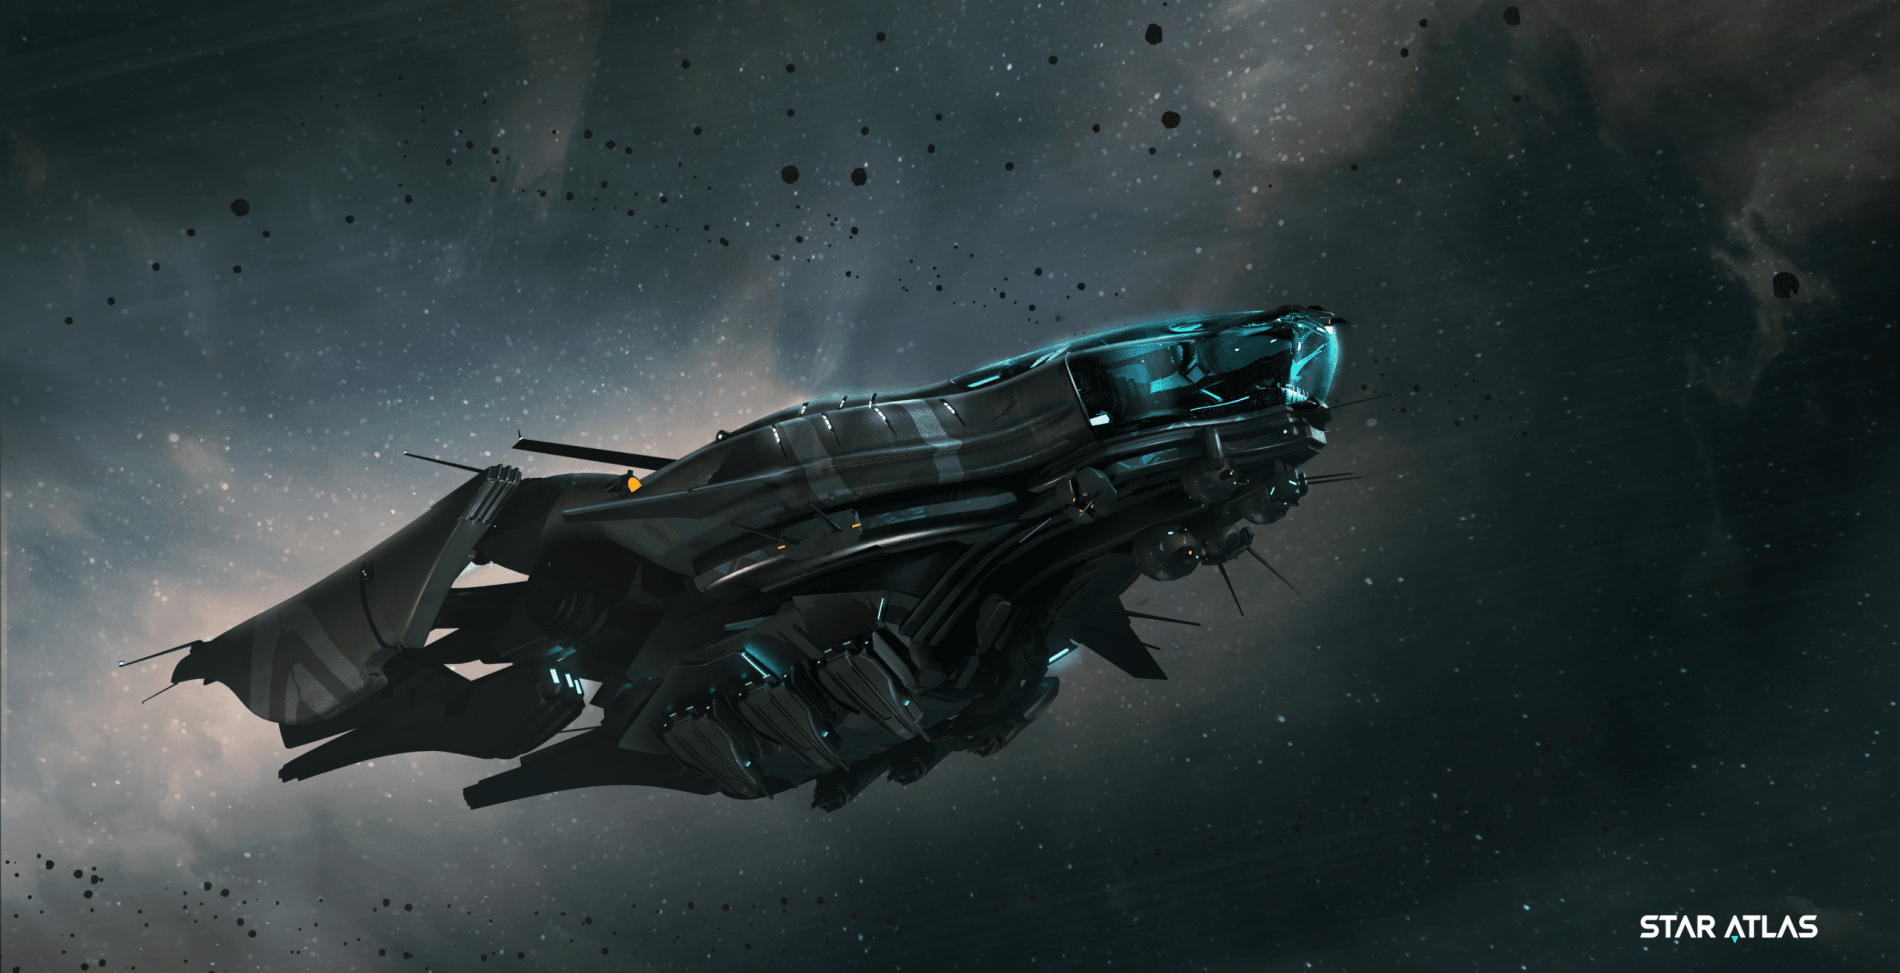
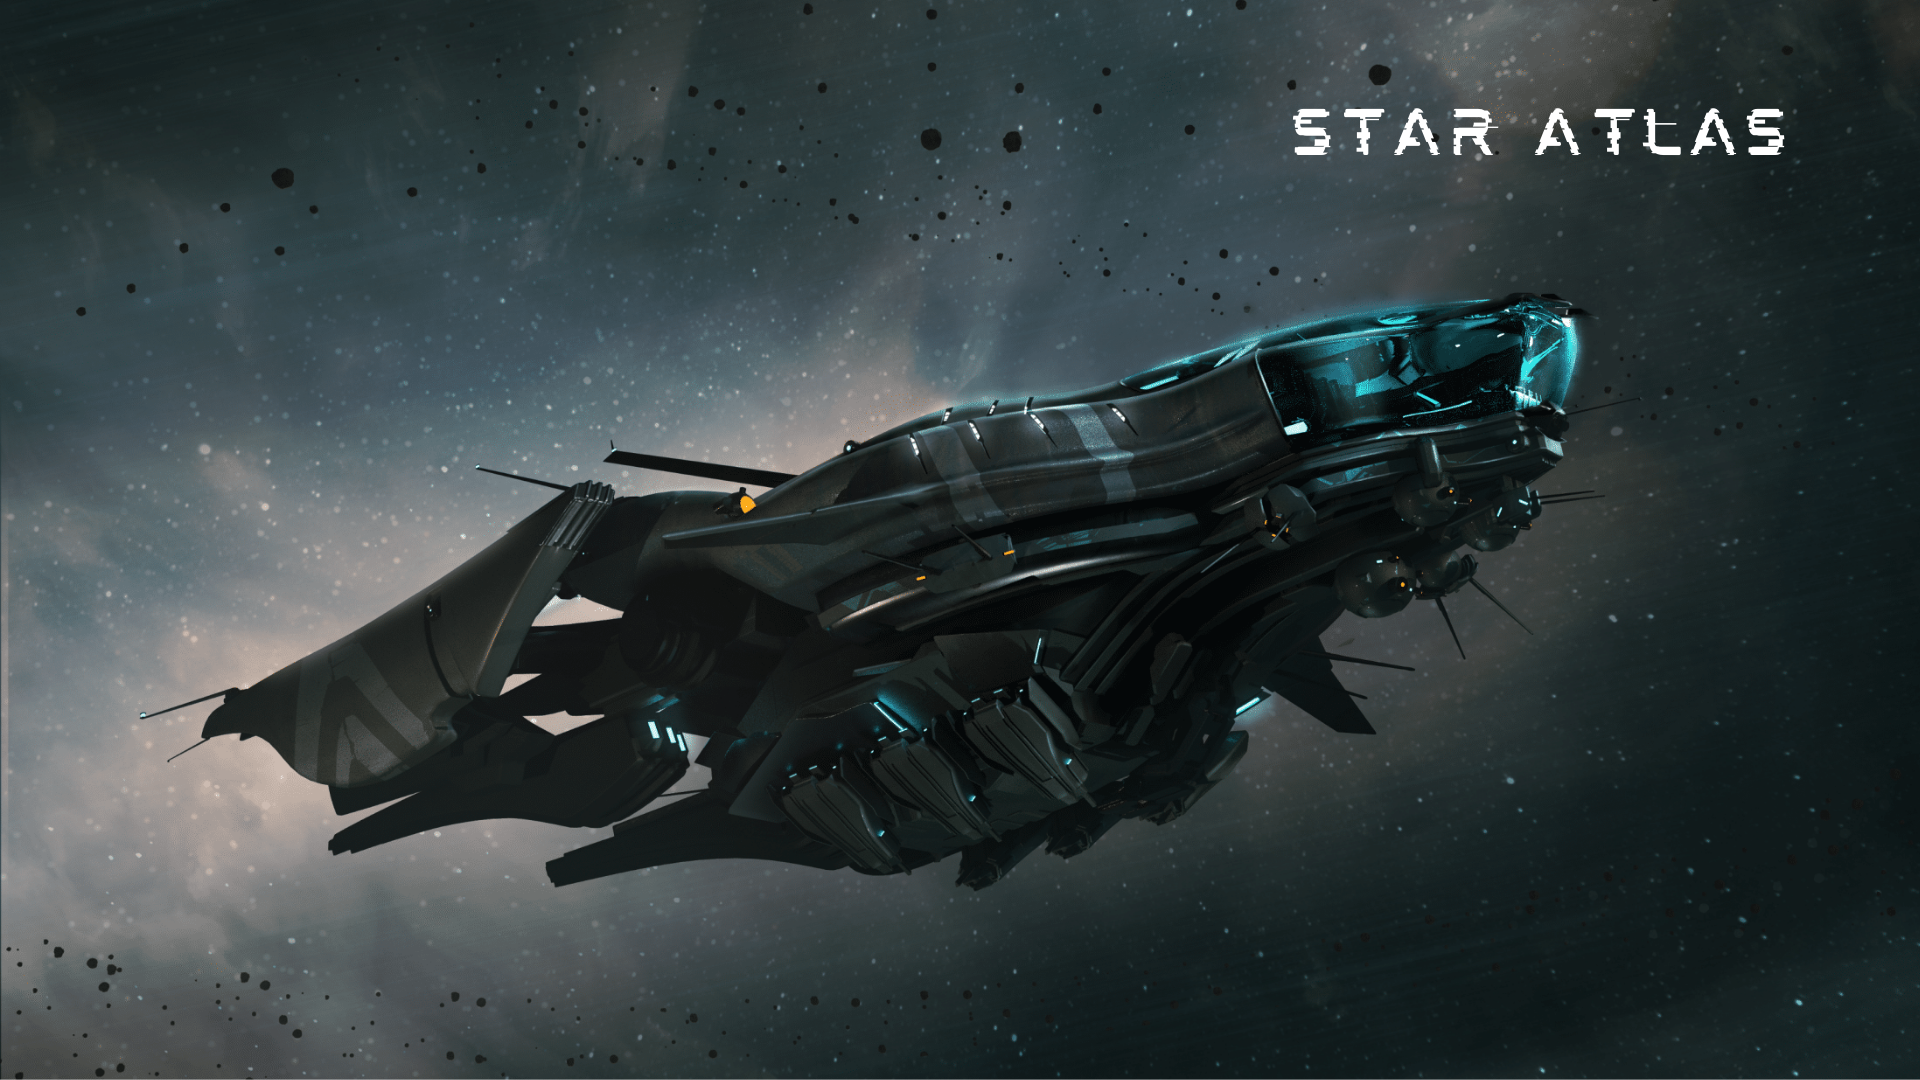
modified:   assets/images/axie-land-night-orig.png 	new file:   assets/images/genopets-orig.png 	modified:   assets/images/star-atlas-1900x973.png 	modified:   assets/mobirise/css/mbr-additional.css 	modified:   index.html 	modified:   project.mobirise

diff --git a/index.html b/index.html
@@ -64,9 +64,9 @@
     <div class="align-center container">
         <div class="row justify-content-center">
             <div class="col-12 col-lg-9">
-                <h1 class="glitch mbr-section-title mbr-fonts-style mbr-white mb-3 display-1">IMPACT DAO</h1>
+                <h1 class="mbr-section-title mbr-fonts-style mbr-white mb-3 display-1">IMPACT DAO</h1>
                 <h2 class="mbr-section-subtitle mbr-fonts-style mbr-white mb-3 display-7"><br>
-<div><span style="font-size: 2.5rem; letter-spacing: 4px;"><strong>MAKING AN IMPACT THROUGH GAMING</strong></span><br></div><div>
+<div><span style="font-size: 2.5rem; letter-spacing: 4px;"><strong>MAKING AN IMPACT THROUGH GAMIN</strong>G</span><br></div><div>
 </div></h2><br><br><br>
 <div class="mbr-section-btn mt-3"><a class="btn btn-outline-light display-4" href="https://hardcore-bassi-e32608.netlify.app/"><span class="mobi-mbri mobi-mbri-arrow-down mbr-iconfont mbr-iconfont-btn"></span>Whitepaper</a></div><br><br>
                 <p class="mbr-text mbr-white mbr-fonts-style display-7"><strong>A DAO focused on converging people into the metaverse to build the largest co-owned metaverse economy together.&nbsp;</strong><br><strong>
@@ -77,7 +77,7 @@
     </div>
 </section>
 
-<section data-bs-version="5.1" class="content4 cid-sQ1gw1F0lz" id="content4-3">
+<section data-bs-version="5.1" class="content4 cid-sQ1gw1F0lz mbr-fullscreen" id="content4-3">
     
     
     <div class="container">
@@ -122,7 +122,7 @@
     </div>
 </section>
 
-<section data-bs-version="5.1" class="image1 cid-sQ300Xn7z4" id="image1-l">
+<section data-bs-version="5.1" class="image1 cid-sQ300Xn7z4 mbr-fullscreen" id="image1-l">
     
 
     
@@ -142,8 +142,8 @@
                                 <img class="d-block w-100" src="assets/images/axie-land-night-orig.png" data-slide-to="0" data-bs-slide-to="0">
                                 
                                 <div class="carousel-caption">
-                                    <p class="mbr-section-subtitle mbr-fonts-style display-2">
-                                        <strong>Axie Infinity</strong></p>
+                                    <!-- <p class="mbr-section-subtitle mbr-fonts-style display-2">
+                                        <strong>Axie Infinity</strong></p> -->
                                     
                                 </div>
                             </div>
@@ -153,18 +153,18 @@
                                 <img class="d-block w-100" src="assets/images/star-atlas-1900x973.png" data-slide-to="1" data-bs-slide-to="1">
                                 
                                 <div class="carousel-caption">
-                                    <p class="mbr-section-subtitle mbr-fonts-style display-2">
-                                        <strong>Star Atlas</strong></p>
+                                    <!-- <p class="mbr-section-subtitle mbr-fonts-style display-2">
+                                        <strong>Star Atlas</strong></p> -->
                                     
                                 </div>
                             </div>
                         </div><div class="carousel-item slider-image item">
                             <div class="item-wrapper">
-                                <img class="d-block w-100" src="assets/images/genopets-1199x630.jpg" data-slide-to="2" data-bs-slide-to="2">
+                                <img class="d-block w-100" src="assets/images/genopets-orig.png" data-slide-to="2" data-bs-slide-to="2">
                                 
                                 <div class="carousel-caption">
-                                    <p class="mbr-section-subtitle mbr-fonts-style display-2">
-                                        <strong>Genopets</strong></p>
+                                    <!-- <p class="mbr-section-subtitle mbr-fonts-style display-2">
+                                        <strong>Genopets</strong></p> -->
                                     
                                 </div>
                             </div>
@@ -184,8 +184,7 @@
             <div class="col-12 col-lg">
                 <div class="text-wrapper">
                     <h3 class="mbr-section-title mbr-fonts-style mb-3 display-5"><strong>New age of making money</strong></h3>
-                    <p class="mbr-text mbr-fonts-style display-7">IMPACT aims to continuously support current
-<br>and new play-to-earn games, and maximize value for all metaverse stakeholders.</p>
+                    <p class="mbr-text mbr-fonts-style display-7"><strong>IMPACT aims to continuously support play-to-earn games and maximize value for all metaverse stakeholders.</strong></p>
                 </div>
             </div>
         </div>
@@ -325,7 +324,7 @@
                 </div>
             </div>
             <div class="col-lg-3 offset-lg-1 mbr-form" data-form-type="formoid">
[2 lines of base64/hex data omitted]
                     <div class="row">
                         <div hidden="hidden" data-form-alert="" class="alert alert-success col-12">Thanks for filling out
                             the form!</div>
@@ -401,7 +400,7 @@
             </div>
         </div>
     </div>
-</section><section style="background-color: #fff; font-family: -apple-system, BlinkMacSystemFont, 'Segoe UI', 'Roboto', 'Helvetica Neue', Arial, sans-serif; color:#aaa; font-size:12px; padding: 0; align-items: center; display: flex;"><p style="flex: 0 0 auto; margin:0; padding-right:1rem;"><a href="https://mobirise.site/k" style="color:#aaa;"></a></p></section><script src="assets/bootstrap/js/bootstrap.bundle.min.js"></script>  <script src="assets/parallax/jarallax.js"></script>  <script src="assets/smoothscroll/smooth-scroll.js"></script>  <script src="assets/ytplayer/index.js"></script>  <script src="assets/dropdown/js/navbar-dropdown.js"></script>  <script src="assets/theme/js/script.js"></script>  <script src="assets/formoid/formoid.min.js"></script>  
+</section><section style="background-color: #fff; font-family: -apple-system, BlinkMacSystemFont, 'Segoe UI', 'Roboto', 'Helvetica Neue', Arial, sans-serif; color:#aaa; font-size:12px; padding: 0; align-items: center; display: flex;"><p style="flex: 0 0 auto; margin:0; padding-right:1rem;"><a href="https://mobirise.site/t" style="color:#aaa;"></a></p></section><script src="assets/bootstrap/js/bootstrap.bundle.min.js"></script>  <script src="assets/parallax/jarallax.js"></script>  <script src="assets/smoothscroll/smooth-scroll.js"></script>  <script src="assets/ytplayer/index.js"></script>  <script src="assets/dropdown/js/navbar-dropdown.js"></script>  <script src="assets/theme/js/script.js"></script>  <script src="assets/formoid/formoid.min.js"></script>  
   
   
  <div id="scrollToTop" class="scrollToTop mbr-arrow-up"><a style="text-align: center;"><i class="mbr-arrow-up-icon mbr-arrow-up-icon-cm cm-icon cm-icon-smallarrow-up"></i></a></div>

diff --git a/assets/mobirise/css/mbr-additional.css b/assets/mobirise/css/mbr-additional.css
@@ -1077,8 +1077,6 @@ a {
   text-align: center;
 }
 .cid-sQ1gw1F0lz {
-  padding-top: 5rem;
-  padding-bottom: 5rem;
   background-color: #000000;
 }
 .cid-sQ1gw1F0lz .mbr-section-title {
@@ -1089,8 +1087,8 @@ a {
   text-align: center;
 }
 .cid-sQ1ilUySug {
-  padding-top: 6rem;
-  padding-bottom: 6rem;
+  padding-top: 10rem;
+  padding-bottom: 10rem;
   background-image: url("../../../assets/images/bricks-2000x1600.jpg");
 }
 .cid-sQ1ilUySug .card-wrapper {
@@ -1128,8 +1126,6 @@ a {
   text-align: center;
 }
 .cid-sQ300Xn7z4 {
-  padding-top: 6rem;
-  padding-bottom: 6rem;
   background-color: #000000;
 }
 @media (max-width: 991px) {
@@ -1220,7 +1216,7 @@ a {
   text-align: center;
 }
 .cid-sQ1CiHaJmI {
-  padding-top: 0rem;
+  padding-top: 3rem;
   padding-bottom: 5rem;
   background-image: url("../../../assets/images/bricks-2000x1600.jpg");
 }
@@ -1231,8 +1227,8 @@ a {
   color: #7db7d7;
 }
 .cid-sQ2UPY5Pbe {
-  padding-top: 4rem;
-  padding-bottom: 4rem;
+  padding-top: 6rem;
+  padding-bottom: 6rem;
   background-image: url("../../../assets/images/axie2-2000x1600.jpg");
 }
 .cid-sQ2UPY5Pbe .mbr-section-title {
